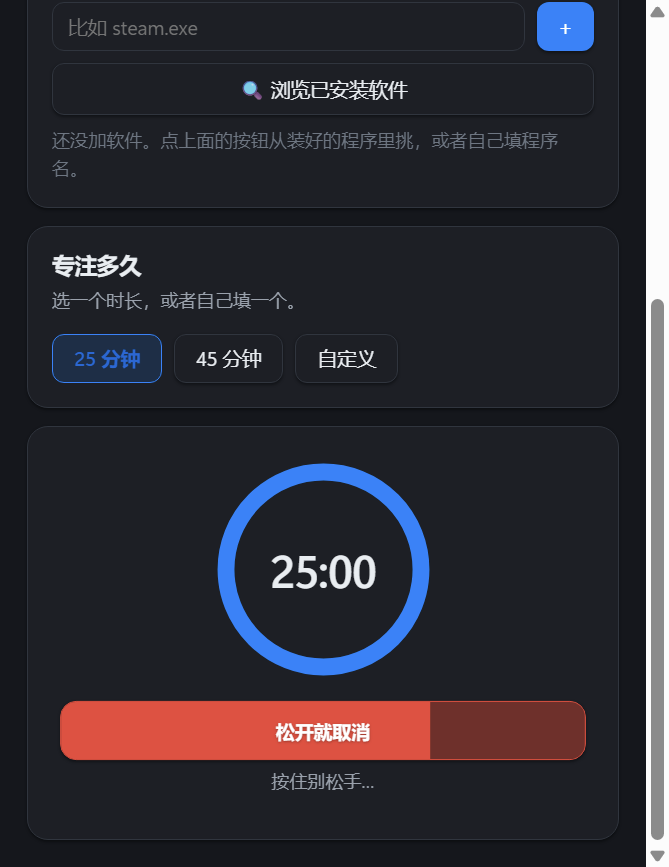
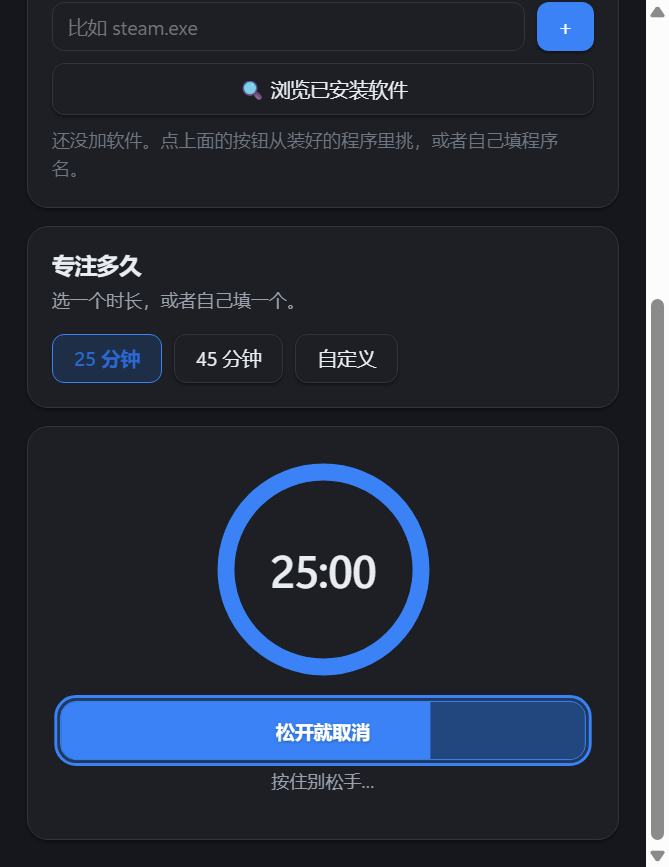
v4 批次 2.6⁺：退出进度条改蓝色 + 修掉按钮被 .danger 盖住
主人要求把「按住退出」进度条从红改成蓝。

- 加专属 token --stop-hold / --stop-hold-strong（不再挂 --danger-500）：
  语义上是「进度」不是「危险」，也方便以后按主题微调。
  深色主题的 strong 取更亮的 #409cff —— 深色下 --a-600 反而更暗，
  沿用浅色的「更深」会让「提高对比度」反效果。
- 顺手抓出并修掉一个真 bug：按钮原来还挂着通用类 .danger，
  它的 :hover 也设 background，和「按住变蓝底」互相抢，
  实测按住的按钮其实是深灰（只有里层填充是蓝的）。
  现在按钮底色/边框/文字自己一套写清，不再挂 .danger。
- 自检加一节「填充是蓝色不是红色」（色相 + 彩度一起判，含 4 条负对照）：
  65 通过 / 0 失败，负对照 27/27。
- 记录两个坑（CLAUDE.md 66/67）：量带过渡的样式不能在同一个 tick 里读
  （读到的是过渡起点），以及按钮别借通用类的样式。

回归：picker-ui 49/0，settings-e2e 160/0，focusmode-e2e 60/0，
纯 Node 16 套全绿。

Changed region(s): [[0.0598, 0.7785, 0.8969, 0.9031]]

diff --git a/scripts/test-focus-stop-ui.js b/scripts/test-focus-stop-ui.js
@@ -483,8 +483,115 @@ if (!process.versions.electron) {
         ` → Math.ceil(undefined/1000) = “${oldStyle}”`);
     }
 
-    // ================= 14. 收尾 =================
-    console.log('\n14. 收尾');
+    // ================= 14. ★ 填充色是「蓝色」，不是「红色」（主人要求） =================
+    //   为什么要专门钉一条：
+    //     · 改颜色这件事**没有任何纯逻辑**可以测 —— 它只活在样式表里，
+    //       所以只有「真的把页面渲染出来、真的问一句 computedStyle」才算验证过；
+    //     · 而且这类改动最容易「看着像改了、其实没生效」：比如 token 名打错、
+    //       或者旧规则在后面又覆盖回去（CSS 是后写的赢）。**只有量出来才算数。**
+    //   判定用的是**色相**（HSL 的 hue），不是硬编码一个十六进制：
+    //     写死 `expect('#0071e3')` 的话，以后主人想微调蓝的深浅，自检立刻假红。
+    //     而「是不是蓝」这件事，看色相就够了（蓝在 180°~260° 之间）。
+    console.log('\n14. ★ 填充色是蓝色（不是红色）');
+    {
+      const rgb2hsl = (css) => {
+        const m = String(css).match(/(\d+(?:\.\d+)?)/g);
+        if (!m || m.length < 3) return null;
+        const [r, g, b] = m.slice(0, 3).map(Number).map((v) => v / 255);
+        const mx = Math.max(r, g, b), mn = Math.min(r, g, b);
+        const l = (mx + mn) / 2;
+        const d = mx - mn;
+        if (d === 0) return { h: 0, s: 0, l };
+        const s = l > 0.5 ? d / (2 - mx - mn) : d / (mx + mn);
+        let h;
+        if (mx === r) h = ((g - b) / d) % 6;
+        else if (mx === g) h = (b - r) / d + 2;
+        else h = (r - g) / d + 4;
+        h *= 60; if (h < 0) h += 360;
+        return { h, s, l };
+      };
+
+      // ---- 常态下的填充色 ----
+      const normal = await js(`getComputedStyle(document.getElementById('focus-stop-fill')).backgroundColor`);
+      const hsl = rgb2hsl(normal);
+      check(!!hsl, '填充色能被读成 RGB（样式确实作用到了这个元素上）', false, ` → ${normal}`);
+      check(hsl && hsl.h >= 180 && hsl.h <= 260,
+        '★ 填充色是**蓝色**（色相 180°~260°）', false,
+        ` → ${normal} → hue=${hsl ? hsl.h.toFixed(0) : '?'}°`);
+      check(hsl && hsl.s > 0.3, '★ 是「有彩度的蓝」，不是灰色', false,
+        ` → sat=${hsl ? (hsl.s * 100).toFixed(0) : '?'}%`);
+
+      // ---- ★★ 负对照 1：证明「色相判定」真的能红 ----
+      //   主人原话是「把红色改成蓝色」，所以最该抓的错就是**它还红着**。
+      //   这里把上一版的颜色（--danger-500 红）拿来过同一个判定，必须判成「不是蓝」。
+      const redHsl = rgb2hsl('rgb(240, 68, 56)'); // = #f04438，就是原来那个红
+      check(redHsl && !(redHsl.h >= 180 && redHsl.h <= 260),
+        '★ 负对照：原来的红色过不了「是蓝」这条判定（说明上面那条不是装饰）', true,
+        ` → hue=${redHsl.h.toFixed(0)}°（红约 5°，应落在 180°~260° 之外）`);
+
+      // ---- ★ 负对照 2：样式表里已经没有任何一处「用 danger 色画填充」了 ----
+      const fs = require('fs');
+      const css = fs.readFileSync(path.join(root, 'src/renderer/settings/index.html'), 'utf8');
+      // 抓「.focus-stop-fill { … }」这个块（含随后的声明），看里面有没有 danger
+      const fillBlocks = css.match(/\.focus-stop-fill\s*\{[^}]*\}/g) || [];
+      check(fillBlocks.length >= 1, '样式表里找得到 .focus-stop-fill 规则', false,
+        ` → ${fillBlocks.length} 处`);
+      check(!fillBlocks.some((b) => /--danger/.test(b)),
+        '★ 填充的规则里不再直接引用 danger 色（改颜色只该动 --stop-hold）', true);
+      // 而且必须挂着专属 token
+      check(fillBlocks.some((b) => /var\(\s*--stop-hold\s*\)/.test(b)),
+        '★ 填充用的是专属 token --stop-hold（语义是「进度」，不是「危险」）', false);
+
+      // ---- ★ 负对照 3：_.holding_ 状态下按钮本身也是蓝的 ----
+      //   按住时整颗按钮会被填充色「铺满」，所以这一层也必须蓝 —— 只看填充层会漏掉它。
+      //
+      //   ★★ 这条断言**真的抓到过一个 bug**（值得留个记录）：
+      //      按钮上原来还挂着通用的 `.danger` 类，它的 `:hover` 规则权重相同、位置更靠后，
+      //      于是把「按住时的蓝底」盖了回去 —— 按住的按钮其实是**深灰**。
+      //      而这份灰恰好带一点蓝调（hue≈222°），**只判色相的版本照样通过了**。
+      //      教训：判「是不是某个颜色」时，**彩度必须一起判**，
+      //      否则任何「灰里带一点该色相」的坏值都能蒙混过关。
+      //
+      //   ★★ 量法上还踩了一个坑，也记下来：
+      //      按钮身上有 `transition: background var(--t-fast)`（常态灰 → 按住蓝要过渡）。
+      //      如果在**同一个同步 tick**里「加类 + 马上读 computedStyle」，
+      //      读到的是过渡的**起点**（还是灰的）—— 看着像「修不好」，其实只是没等它走完。
+      //      ⇒ 量的对象带过渡时，必须**等过渡结束**再读。
+      //      （这条也解释了为什么单独开个小探针「分两次调用」反而正常：中间自然过了一帧。）
+      await js(`document.getElementById('btn-focus-stop').classList.add('holding')`);
+      await wait(300);   // > --t-fast（110ms），等过渡走完
+      const holdProbe = await js(`(() => {
+        const b = document.getElementById('btn-focus-stop');
+        return { bg: getComputedStyle(b).backgroundColor,
+          dark: matchMedia('(prefers-color-scheme: dark)').matches,
+          contrast: matchMedia('(prefers-contrast: more)').matches, cls: b.className };
+      })()`);
+      await js(`document.getElementById('btn-focus-stop').classList.remove('holding')`);
+      await wait(200);
+      const holdingBg = holdProbe.bg;
+      const hHsl = rgb2hsl(holdingBg);
+      check(hHsl && hHsl.h >= 180 && hHsl.h <= 260 && hHsl.s > 0.3,
+        '★ 按住时按钮本身也是蓝底（不是只把里层填充改了）', false,
+        ` → ${holdingBg} → hue=${hHsl ? hHsl.h.toFixed(0) : '?'}° sat=${hHsl ? (hHsl.s * 100).toFixed(0) : '?'}%（dark=${holdProbe.dark} contrast=${holdProbe.contrast}）`);
+      // ★ 负对照：那个「灰里带蓝」的坏值必须被判红（当时就是这样溜过去的）
+      const greyHsl = rgb2hsl('rgb(28, 31, 38)');
+      check(!(greyHsl.h >= 180 && greyHsl.h <= 260 && greyHsl.s > 0.3),
+        '★ 负对照：深灰（带一点蓝调）过不了「是蓝底」这条判定（彩度卡掉了它）', true,
+        ` → hue=${greyHsl.h.toFixed(0)}° sat=${(greyHsl.s * 100).toFixed(0)}%（色相像蓝，但彩度太低）`);
+
+      // ---- ★ 负对照 4：按钮上不该再借通用的 danger 类 ----
+      //   上面的 bug 根因就是「借了别人的样式」；这条守着它别再回来。
+      const btnCls = await js(`document.getElementById('btn-focus-stop').className`);
+      check(!/\bdanger\b/.test(btnCls),
+        '★ 退出按钮不再挂通用 `danger` 类（自己的样式自己说清，免得再被覆盖）', true,
+        ` → class="${btnCls}"`);
+      const dangerBlocks = css.match(/\.danger(?::hover)?\s*\{[^}]*\}/g) || [];
+      check(dangerBlocks.length >= 1 && dangerBlocks.every((b) => !/--stop-hold/.test(b)),
+        '★ 通用 danger 类没有被塞进进度条的色（两边彻底解耦）', true);
+    }
+
+    // ================= 15. 收尾 =================
+    console.log('\n15. 收尾');
     check(errors.length === 0, '没有意外的渲染进程报错：' + errors.join(';'));
 
     if (process.argv.includes('--screenshots') && fail === 0) {

diff --git a/src/renderer/settings/index.html b/src/renderer/settings/index.html
@@ -53,6 +53,12 @@
       --danger-050: #fef2f2;
       --danger-line: #fecaca;
 
+      /* ---- 「按住退出」进度条的颜色（v4 批次 2.6⁺）----
+         ★ 单独一个 token，不挂 --danger-500：语义上它是「进度」不是「危险」。
+         用系统蓝（和 --a-500 同族），所以它和界面其它蓝色是一个家族。 */
+      --stop-hold: var(--a-500);
+      --stop-hold-strong: var(--a-600);   /* 提高对比度时用更深的那一档 */
+
       /* ---- 语义别名（旧名沿用，别删）---- */
       --bg: var(--n-2);
       --card: var(--n-0);
@@ -132,6 +138,11 @@
         --warn-line: rgba(255, 216, 138, .34);
         --danger-050: rgba(240, 68, 56, .14);
         --danger-line: rgba(254, 202, 202, .30);
+
+        /* ★ 深色主题下「提高对比度」的填充要**更亮**，不能沿用浅色主题的「更深」——
+           浅色主题里 `--a-600` 比 `--a-500` 深（贴白底更清楚），
+           但深色主题里那样会变成「在一片深色上更深的蓝」，正好反了。 */
+        --stop-hold-strong: #409cff;
 
         --mat-chrome: rgba(28, 31, 38, .70);
         --mat-edge: rgba(255, 255, 255, .08);
@@ -925,7 +936,20 @@
       -webkit-user-select: none;
       touch-action: none; /* 长按时别触发滚动/缩放手势 */
       --hold: 0;
+      /* ★ 底色/边框/文字自己一套（不再借 `.danger`）：
+         常态是「安静的蓝字按钮」，按住时才被蓝底铺满。 */
+      background: var(--n-0);
+      border: 1px solid var(--line);
+      color: var(--stop-hold);
+      box-shadow: var(--sh-1);
+      cursor: pointer;
+      transition: border-color var(--t-fast) var(--ease-out),
+                  background var(--t-fast) var(--ease-out);
     }
+    /* 悬停只把边框点亮一点，**不换背景** ——
+       背景是「按住进度」的专属区域，悬停不该去动它（那是两件事）。 */
+    .focus-stop:hover { border-color: var(--stop-hold); }
+    .focus-stop:active { box-shadow: none; }
     /* 轨道：按住之前就能看出「这里会涨」 */
     .focus-stop::before {
       content: '';
@@ -935,6 +959,11 @@
       background: var(--n-2);
       opacity: .55;
     }
+    /* ★ v4 批次 2.6⁺：填充色改成**蓝色**（主人要求）。
+       用一个专用 token `--stop-hold`，不再直接挂 `--danger-500`：
+         · 语义上这是「进度」，不是「危险」——挂 danger 会让以后想微调这个蓝
+           不小心动到全站的报错色；
+         · 深色主题下同一个蓝可能偏暗，有单独 token 才好按主题调。 */
     .focus-stop-fill {
       position: absolute;
       left: 0;
@@ -944,19 +973,19 @@
       width: 100%;
       transform: scaleX(var(--hold));
       transform-origin: left center;
-      background: var(--danger-500);
+      background: var(--stop-hold);
       /* 涨：跟着手指，线性；退：快，让人感觉「一松就回来了」 */
       transition: transform 160ms var(--ease-out);
     }
-    .focus-stop.holding { border-color: var(--danger-500); }
+    .focus-stop.holding { border-color: var(--stop-hold); }
     /* 按住期间填充跟手，不加过渡（否则会落后于手感） */
     .focus-stop.holding .focus-stop-fill { transition: none; }
     .focus-stop-label { position: relative; z-index: 1; }
-    /* 填充从左边扫过来，文字会有一段压在红底上 —— 加重文字阴影保证任何进度都读得清 */
+    /* 填充从左边扫过来，文字会有一段压在蓝底上 —— 加重文字阴影保证任何进度都读得清 */
     .focus-stop.holding {
       color: #fff;
-      border-color: var(--danger-500);
-      background: var(--danger-500);
+      border-color: var(--stop-hold);
+      background: var(--stop-hold);
     }
     .focus-stop.holding .focus-stop-label {
       color: #fff;
@@ -973,7 +1002,7 @@
     /* 提高对比度：给轨道一个实边，别只剩一层淡底 */
     @media (prefers-contrast: more) {
       .focus-stop::before { opacity: 1; border: 2px solid var(--text); }
-      .focus-stop-fill { background: var(--danger-600); }
+      .focus-stop-fill { background: var(--stop-hold-strong); }
     }
 
     /* ---------- 已安装软件选择器（v4 批次 1） ---------- */
@@ -1518,7 +1547,12 @@
              ⚠ 进度**不是**「还剩多少专注时间」，而是「这个退出动作按到哪了」——
                所以它和上面的圆环各管各的，别合并（会让人以为专注只剩 3 秒）。
              ★ 松手就回退：这是我们故意的「可打断」，不是 bug。 -->
-        <button id="btn-focus-stop" class="danger focus-stop" type="button"
+        <!-- ★ v4 批次 2.6⁺：这里**不再挂 `danger` 这个通用类**。
+             原来它借 danger 的样式（红字红边），改成蓝色进度条以后，
+             danger 的 `:hover` 背景会把「按住时的蓝底」盖掉（同权重、后写的赢），
+             实测按住了按钮还是灰的 —— 只有里层填充是蓝的。
+             现在这颗按钮的底色/边框/文字全由 `.focus-stop*` 自己一套说清，不借别人的。 -->
+        <button id="btn-focus-stop" class="focus-stop" type="button"
                 aria-describedby="focus-stop-hint">
           <span class="focus-stop-fill" id="focus-stop-fill" aria-hidden="true"></span>
           <span class="focus-stop-label" id="focus-stop-label">长按 3 秒结束</span>

diff --git a/PLAN-V4-UI升级.md b/PLAN-V4-UI升级.md
@@ -240,7 +240,7 @@ src/renderer/settings/     ← 界面：软件选择器（不碰系统，通过 
 | 2.6-6 | 专注页 token 化打磨（输入框不再写死 `#fff`/`7px`、空名单占位、层级） | `index.html` |
 | 2.6-7 | 专门的自检套件（真渲染进程 + 内存 IPC，**不碰系统**） | `scripts/test-focus-stop-ui.js` |
 
-**实测：** `test:focus-stop-ui` **54 通过 / 0 失败，负对照 22/22**；`test:picker-ui` 49/0；
+**实测：** `test:focus-stop-ui` **65 通过 / 0 失败，负对照 27/27**；`test:picker-ui` 49/0；
 `settings-e2e` **160/0**（顺手修掉一条「只看第一块 reduced-motion」的脆弱断言）；
 `focusmode-e2e` **60/0**（真走 pointer 长按路径，证明**退出难度没变**）；
 纯 Node 全套 18 套 + Electron 全套 12 套全绿。
@@ -251,9 +251,17 @@ src/renderer/settings/     ← 界面：软件选择器（不碰系统，通过 
   不额外加 easing 拖着；松手后能立刻重按。
 - **不做「劝退式」设计** → 难度**一点没变**，仍然要按满 3 秒。进度条只是把「按到哪了」画出来，
   没有让退出变容易 —— 它是自律工具，不是装饰。
-- **状态用颜色 + 文字双重表达** → 按住时整颗按钮变红底白字（不只是靠填充的边界）。
+- **状态用颜色 + 文字双重表达** → 按住时整颗按钮变蓝底白字（不只是靠填充的边界）。
 
-**过程中抓出的坑（见 `CLAUDE.md` 第 61–65 条）：**
+**批次 2.6⁺（主人追加）：进度条颜色改成蓝色**
+- 原话：「把推出进度条颜色改为蓝色」。做法：不直接挂 `--danger-500`，而是加两个专属 token
+  `--stop-hold`（常态）/ `--stop-hold-strong`（提高对比度时），浅色主题取 `--a-500` / `--a-600`，
+  **深色主题的 strong 取更亮的 `#409cff`** —— 因为深色下 `--a-600` 反而更暗，「提高对比度」会反效果。
+- 顺手修掉一个**真实 bug**：按钮原来还挂着通用类 `.danger`，它的 `:hover` 也会设 `background`，
+  和「按住时变蓝底」互相抢，实测按住的按钮其实是**深灰**。现在按钮的底色/边框/文字自己一套写清，
+  **不再挂 `danger`**（自检钉一条「class 里不许出现 danger」）。
+
+**过程中抓出的坑（见 `CLAUDE.md` 第 61–67 条）：**
 1. **`pointerleave` 取消按住 = 坑人** —— 按到 2.9 秒手指偏一像素就归零。
    改成 `setPointerCapture`，松手只认 `pointerup` / `pointercancel`。
 2. **进度 ≠ 剩余时间** —— 一旦共用 ratio，主人会看到「专注只剩 3 秒」的假象。
@@ -263,6 +271,11 @@ src/renderer/settings/     ← 界面：软件选择器（不碰系统，通过 
 4. **夹具比真货少字段，测的就是假货** —— 假主进程漏给 `remainingMs`/`progressRatio`，
    圆环算错、倒计时画成 `NaN:NaN`（从截图里看出来的）。
 5. **界面绝不许把坏输入画成 `NaN`** —— `fmtClock` 统一兜底，负数夹到 0，并配负对照。
+6. **量带过渡的样式不能在同一个 tick 里读**（第 66 条）—— 加完 `.holding` 立刻读背景，
+   读到的是过渡的**起点**（还是灰的），看着像「改了颜色没生效」。等过渡走完再读。
+   ★ 同一条还教了「判颜色要色相 + 彩度一起判」：那个灰带一点蓝调（hue≈222°/sat≈15%），
+   只判色相会放过它。
+7. **按钮别借通用类的样式**（第 67 条）—— 根因同上。
 
 **⏸ 停在这里等主人确认，才开工批次 3。**
 
@@ -313,5 +326,6 @@ src/renderer/settings/     ← 界面：软件选择器（不碰系统，通过 
 批次 1 做完 → 截图 + 自检结果 → ✅ **主人已确认（「可以了」）**
 批次 2 做完 → 截图对比 → ✅ **主人已看过，并追加了「先勾后存」的要求**（= 批次 2.5）
 批次 2.5 做完 → 截图 + 自检结果 → ✅ **主人已确认（「可以了」）**，并追加了「退出改进度条」（= 批次 2.6）
-批次 2.6 做完 → 截图 + 自检结果 → ⏸ **等主人确认** → 才开工批次 3
+批次 2.6 做完 → 截图 + 自检结果 → ✅ **主人已确认，并追加了「进度条改蓝色」（= 批次 2.6⁺，已完成）**
+批次 2.6⁺ 做完 → 截图 + 自检结果（65/0，负对照 27/27）→ ✅ **主人已授权开工批次 3**
 批次 3 做完 → 录屏 + 全量回归 → 主人真机验收 → 收工

diff --git a/CLAUDE.md b/CLAUDE.md
@@ -383,6 +383,22 @@ desktop-pet/
     `const raw = Number(ms); Number.isFinite(raw) ? raw : 0`，负数夹到 0。
     ★ 自检要钉**负对照**：`fmtClock(undefined/null/NaN/'abc'/-5000)` 全部不许含 `NaN`，
     并且用旧写法算一遍证明「这条断言真的能红」。
+66. **★ 量「带过渡的样式」必须等过渡走完，不能在同一个 tick 里读** —— v4 批次 2.6⁺：
+    把退出按钮的填充从红改蓝后，自检里加了一条「按住时按钮本身也是蓝底」。
+    写法是「加 `.holding` 类 → 立刻 `getComputedStyle` 读背景」——
+    读到的是**过渡的起点**（还是常态的灰），看起来像「改了颜色没生效」，
+    其实只是 `transition: background 110ms` 还没开始走。
+    ★ 教训：**读 computedStyle 前先问一句「这个属性有没有过渡/动画」**。
+    有 → 加完状态要 `await` 一个大于过渡时长的时间再读；
+    或者临时 `transition: none` 再读（但那样就测不到「真实观感」了，优先前者）。
+    ★ 顺带：判某个颜色时**色相和彩度要一起判** ——
+    当时那个灰恰好带一点蓝调（hue≈222°，sat≈15%），只判色相会放过它。
+67. **★ 按钮别借通用类的样式（`.danger` 这种），尤其当你要改它的颜色时** ——
+    同一事故的根因：退出按钮同时挂了 `.danger` 和我自己的 `.focus-stop`，
+    而 `.danger:hover` 也设 `background`。改颜色时两边就开始抢，
+    谁赢取决于权重和书写顺序 —— 这种 bug 极难从截图上看出来。
+    ★ 做法：这颗按钮需要的底色/边框/文字**自己一套写清**，不再挂通用语义类；
+    自检里钉一条「按钮的 class 里不许出现 `danger`」。
 50. **中文过滤规则不能照抄英文那套「词边界」** —— v4 踩到：过滤卸载项时写了
     `(^|[\s\-_])(uninstall|卸载)([\s\-_.]|$)`，英文的 `Uninstall` 能匹配，
     可中文的「卸载微信」「卸载火绒」**一条都匹配不上**（中文没有空格当分隔符）。
@@ -480,7 +496,8 @@ npm run test:focus-intercept # 专注·系统薄壳 56
 npm run test:focus-wiring    # 专注·接线/默认值（专抓「自检全绿真机挂」）17
 npm run test:apps            # v4·已安装软件扫描（解析 lnk / 过滤 / 并发图标）105
 npm run test:picker-ui       # v4·软件选择器（真渲染进程 + 真 preload + 内存 IPC）49
-npm run test:focus-stop-ui   # v4·退出专注的长按进度条（真渲染进程 + 内存 IPC）54
+npm run test:focus-stop-ui   # v4·退出专注的长按进度条（真渲染进程 + 内存 IPC）65
+                             # 含「填充是蓝色不是红色」一节（色相 + 彩度一起判）
 npm run check:hosts          # hosts 体检（能不能读 / 错误码 / 有无残留块；只读）
 
 # Electron 端到端自检（慢，串行跑）
